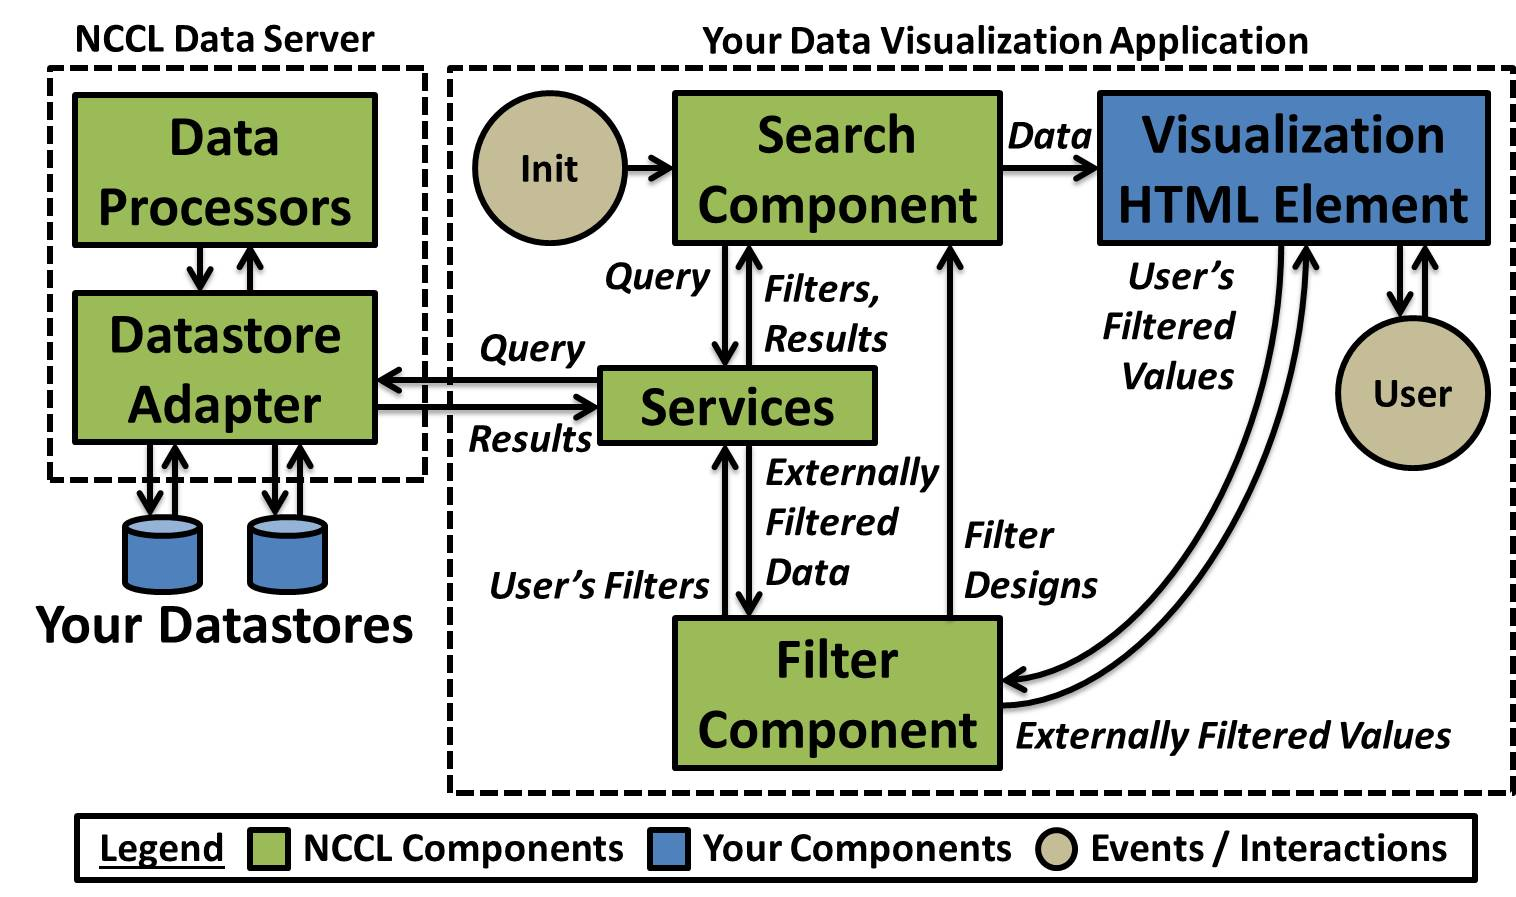
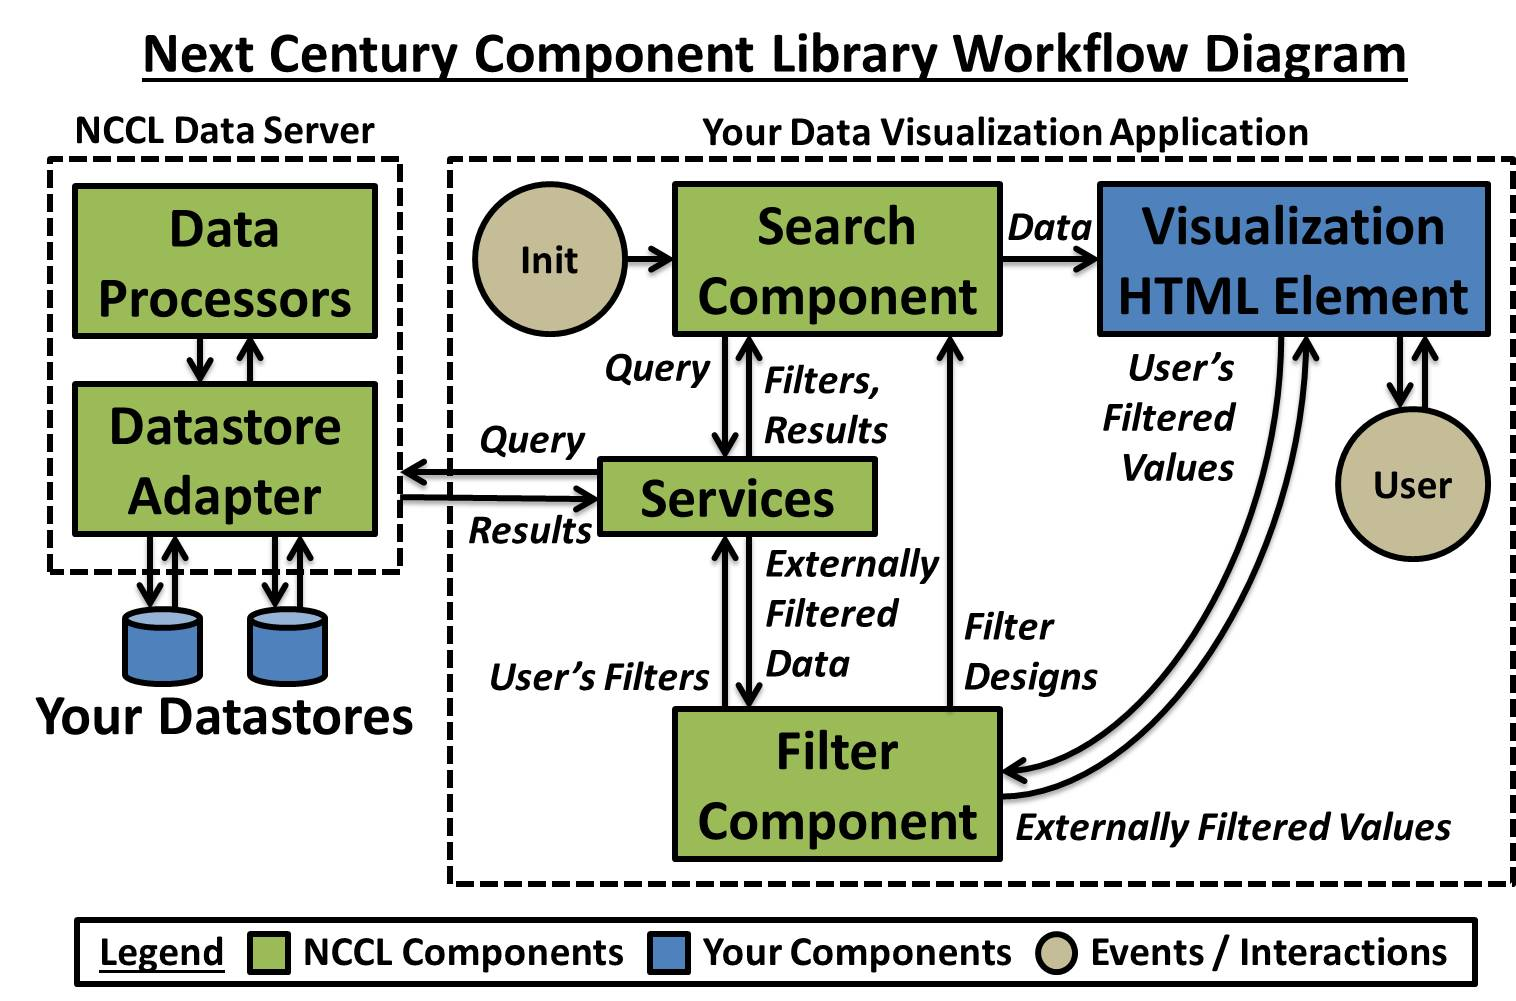
Updated workflow image in component library README file.

diff --git a/src/app/library/README.md b/src/app/library/README.md
@@ -197,8 +197,6 @@ The NCCL [**Data Server**](https://github.com/NextCenturyCorporation/neon-server
 
 ![NCCL Sequence](./images/NCCL-Sequence.jpg)
 
-**Next Century Component Library Workflow Diagram**
-
 ![NCCL Workflow](./images/NCCL-Workflow.jpg)
 
 ### Setup
@@ -553,6 +551,8 @@ In your application, this...
 
 ...with custom transformation functions:
 
+(TODO / WIP)
+
 ```js
 const transformSearchDataArray = function(searchDataArray) { /* ... */ };
 const transformBoundsEventFilterData = function(event) { /* ... */ };
@@ -625,7 +625,6 @@ search1.addEventListener('dataReceived', transformSearchDataArray);
 <next-century-search
     id="search1"
     search-field-key="es1.index_name.index_type.*"
-    server="http://localhost:8090/"
 >
 </next-century-search>
 ```
@@ -657,7 +656,6 @@ vis1.addEventListener('yourFilterEvent', transformFilterEventData);
 <next-century-search
     id="search1"
     search-field-key="es1.index_name.index_type.*"
-    server="http://localhost:8090/"
     vis-draw-function="drawData"
     vis-element-id="vis1"
 >
@@ -702,7 +700,6 @@ filter1.addEventListener('filtersChanged', transformFilterDataArray);
 <next-century-search
     id="search1"
     search-field-key="es1.index_name.index_type.*"
-    server="http://localhost:8090/"
     vis-draw-function="drawData"
     vis-element-id="vis1"
 >
